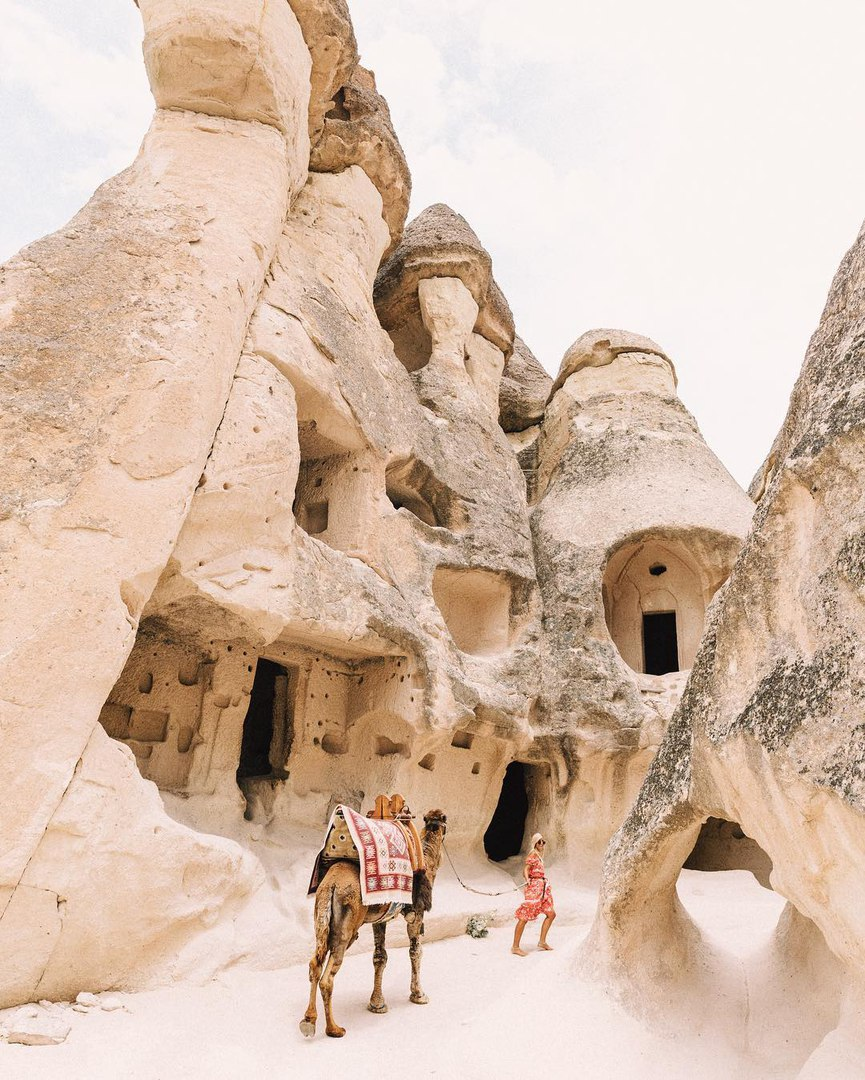
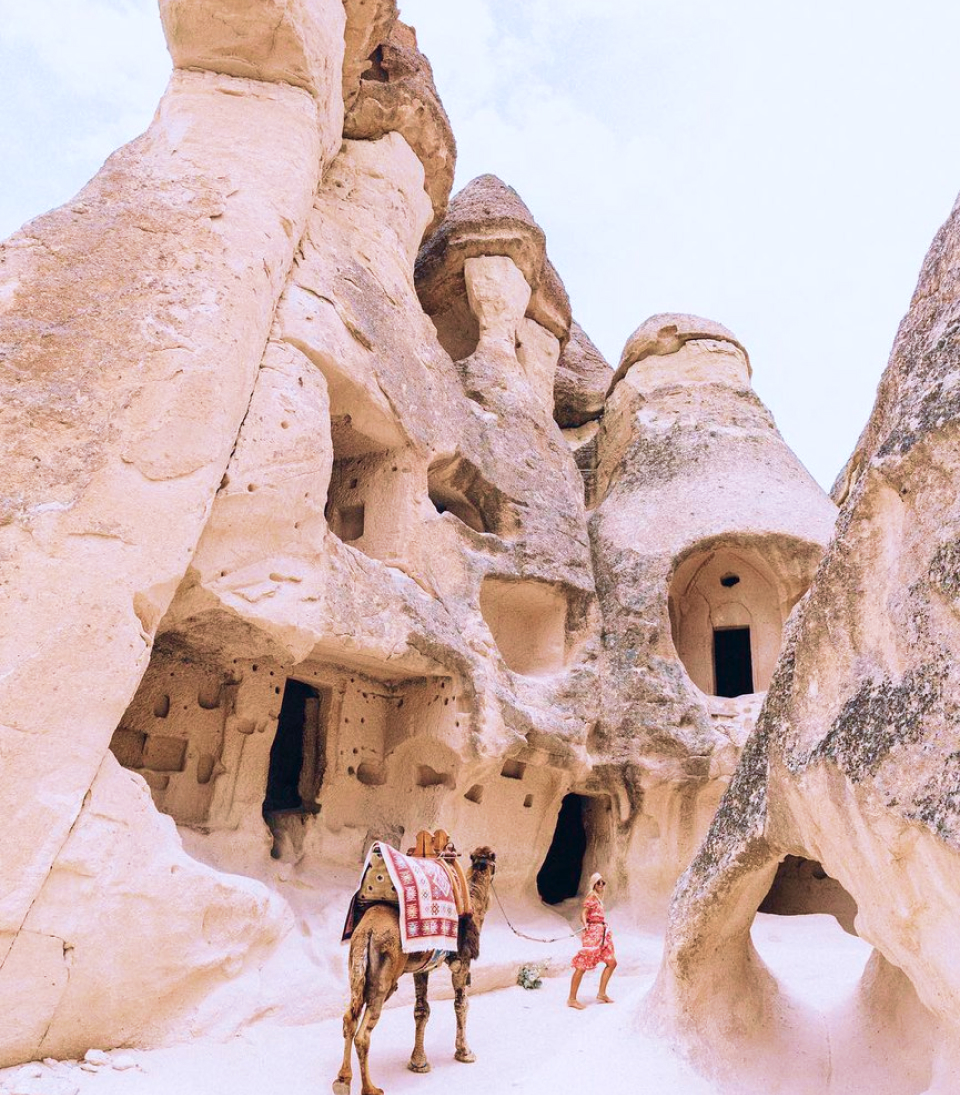
OUR-TRIP (desktop, adapt)

diff --git a/css/components/our-trip.css b/css/components/our-trip.css
@@ -1,0 +1,128 @@
+.our-trip{
+    margin-top: 200px;
+    position: relative;
+}
+
+/*text info*/
+.our-trip__container{
+    max-width: 1230px;
+    padding: 0 15px;
+    margin: 0 auto;
+    display: flex;
+    align-items: center;
+}
+
+.our-trip__content{
+    width: 50%;
+    padding-right: 55px;
+    display: flex;
+    flex-direction: column;
+}
+
+.our-trip__title{
+    font-family: balqis;
+    font-size: clamp(26px, 5vw, 96px);
+    color: #E2AB3F;
+}
+
+.our-trip__subtitle{
+    font-family: RobotoCondensed-Lightitalic;
+    font-size: clamp(8px, 1.5vw, 24px);
+    position: relative;
+    margin-left: 12.6vw;
+    bottom: 1.4vw;
+    margin-bottom: 76px;
+}
+
+.our-trip__list,
+.our-trip__list-title{
+    font-family: RobotoCondensed-Regular;
+    font-size: clamp(14px, 1.5vw, 24px);
+    letter-spacing: -0.2px;
+    line-height: 1.17;
+    margin-bottom: 50px;
+}
+
+.our-trip__list-title{
+    font-weight: 600;
+    margin-bottom: 20px;
+}
+
+.btn{
+    font-family: RobotoCondensed-Regular;
+    font-size: clamp(14px, 1.5vw, 24px);
+    padding: 8px 62px;
+    border: 2px solid #E2AB3F;
+    width: fit-content;
+    transition: background-color 0.3s ease-in-out;
+    text-align: center;
+}
+
+.btn:hover{
+    background-color: #E2AB3F;
+}
+
+/*swiper*/
+.our-trip__swiper{
+    position: absolute;
+    top: 0;
+    bottom: 0;
+    right: 0;
+    max-width: 50vw;
+    height: 100%;
+    aspect-ratio: 1/1.14;
+    display: flex;
+    align-items: center;
+}
+
+@media(max-width: 1440px) {
+    .our-trip__content {
+        width: 27%;
+        padding-right: 25px;
+    }
+
+    .our-trip__swiper{
+        max-width: 60vw;
+    }
+}
+
+@media(max-width: 1024px) {
+    .our-trip{
+        margin-top: 50px;
+    }
+
+    .our-trip__content {
+        width: 100%;
+        padding-right: 0;
+    }
+
+    .our-trip__subtitle{
+        margin-bottom: 25px;
+    }
+
+    .our-trip__list{
+        margin-bottom: 25px;
+    }
+
+    .our-trip__list-title{
+        margin-bottom: 10px;
+    }
+
+    .our-trip__swiper{
+        position: relative;
+        max-width: 100vw;
+        aspect-ratio: 1/1;
+    }
+
+    .our-trip__tour-list{
+        display: grid;
+        grid-template-columns: repeat(2, 1fr);
+        gap: 15px;
+    }
+
+    .our-trip__btn{
+        width: 100%;
+        margin: 0 auto;
+        margin-bottom: 25px;
+    }
+}

diff --git a/index.html b/index.html
@@ -15,7 +15,7 @@
       <div class="header__menu menu">
         <ul class="menu__list">
           <li class="menu__item">
-            <a href="#">Маршрут</a>
+            <a href="#our-trip">Маршрут</a>
           </li>
 
           <li class="menu__item">
@@ -113,9 +113,89 @@
               Місцева кухня - один із приводів відвідати Каппадокію, тут є ресторани на будь-який бюджет.
             </p>
           </div>
+        </div>
+      </div>
+    </div>
+  </div>
 
+  <div class="our-trip" id="our-trip">
+    <div class="our-trip__container">
+      <div class="our-trip__content">
+        <h2 class="our-trip__title">Our trip</h2>
+
+        <h3 class="our-trip__subtitle">Маршрут</h3>
+
+        <div class="our-trip__tour-list">
+          <div class="day">
+            <h4 class="our-trip__list-title">День 1 </h4>
+
+            <ul class="our-trip__list list">
+              <li class="list__item">Приліт в Анкару</li>
+              <li class="list__item">Трансфер до Каппадокії</li>
+              <li class="list__item">Солене озеро</li>
+              <li class="list__item">Приїзд до Герема</li>
+              <li class="list__item">Вечеря</li>
+            </ul>
+          </div>
+
+          <div class="day">
+            <h4 class="our-trip__list-title">День 2 </h4>
+
+            <ul class="our-trip__list list">
+              <li class="list__item">Фотосесія</li>
+              <li class="list__item">Сніданок у готелі</li>
+              <li class="list__item">Денний тур Каппадокією</li>
+              <li class="list__item">Захід сонця з панорамним видом</li>
+            </ul>
+          </div>
+
+          <div class="day">
+  <h4 class="our-trip__list-title">День 3 </h4>
+
+  <ul class="our-trip__list list">
+    <li class="list__item">Політ на повітряній кулі</li>
+    <li class="list__item">Сніданок у готелі</li>
+    <li class="list__item">Екскурсії на вибір</li>
+  </ul>
+</div>
+
+          <div class="day">
+            <h4 class="our-trip__list-title">День 4 </h4>
+
+            <ul class="our-trip__list list">
+              <li class="list__item">Вільний час, шопінг</li>
+              <li class="list__item">Трансфер до Анкари</li>
+              <li class="list__item">Виліт до Києва</li>
+            </ul>
+          </div>
         </div>
 
+
+        <a href="#" class="our-trip__btn btn">ЗАБРОНЮВАТИ</a>
+      </div>
+    </div>
+
+    <div class="our-trip__swiper swiper">
+      <div class="swiper-wrapper">
+        <div class="swiper-slide">
+          <img src="img/our-trip-swiper/first-img.jpg" alt="first picture" class="swiper__img">
+        </div>
+
+        <div class="swiper-slide">
+          <img src="img/our-trip-swiper/second-img.jpg" alt="second picture" class="swiper__img">
+        </div>
+
+        <div class="swiper-slide">
+          <img src="img/our-trip-swiper/third-img.jpg" alt="third picture" class="swiper__img">
+        </div>
+      </div>
+
+      <div class="swiper__button swiper-button-prev">
+        <img src="img/svg/arrow.svg" alt="prev">
+      </div>
+
+      <div class="swiper__button swiper-button-next">
+        <img src="img/svg/arrow.svg" alt="next">
       </div>
     </div>
   </div>

diff --git a/css/components/fairy-tail.css b/css/components/fairy-tail.css
@@ -11,7 +11,7 @@
 
 .fairy-tail__subtitle{
     font-family: RobotoCondensed-Lightitalic;
-    font-size: clamp(14px, 1.5vw, 24px);
+    font-size: clamp(8px, 1.5vw, 24px);
     position: relative;
     margin-left: 9.4vw;
     bottom: 1.3vw;
@@ -22,7 +22,7 @@
     margin-top: 75px;
 }
 
-/*swoper*/
+/*swiper*/
 .info__swiper{
     max-width: 50vw;
     aspect-ratio: 1.37/1;

diff --git a/css/main.css b/css/main.css
@@ -5,6 +5,7 @@
 @import "components/header.css";
 @import "components/banner.css";
 @import "components/fairy-tail.css";
+@import "components/our-trip.css";
 
 .container{
     max-width: 1230px;